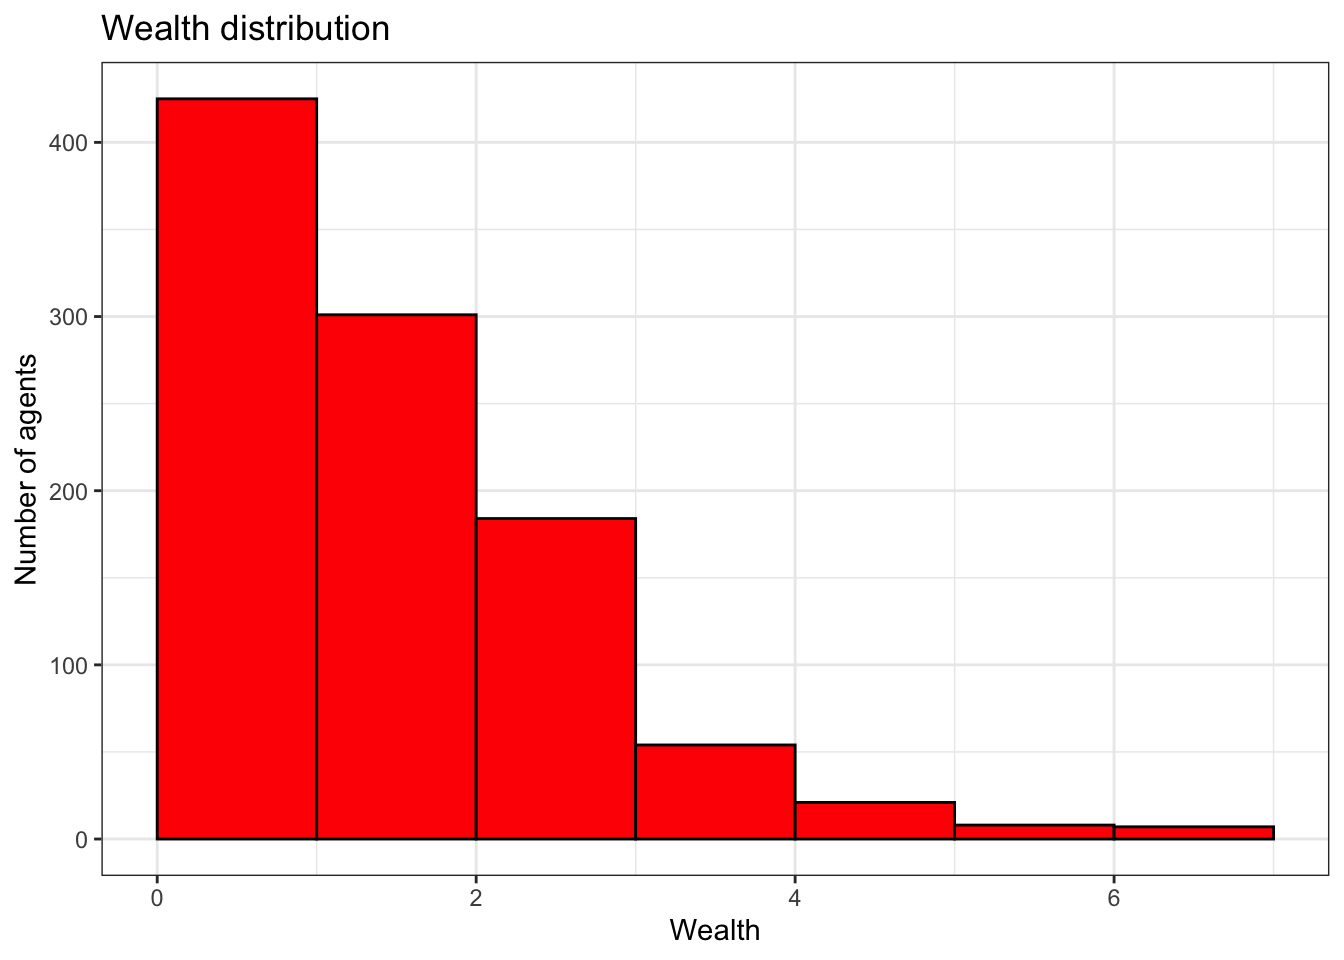
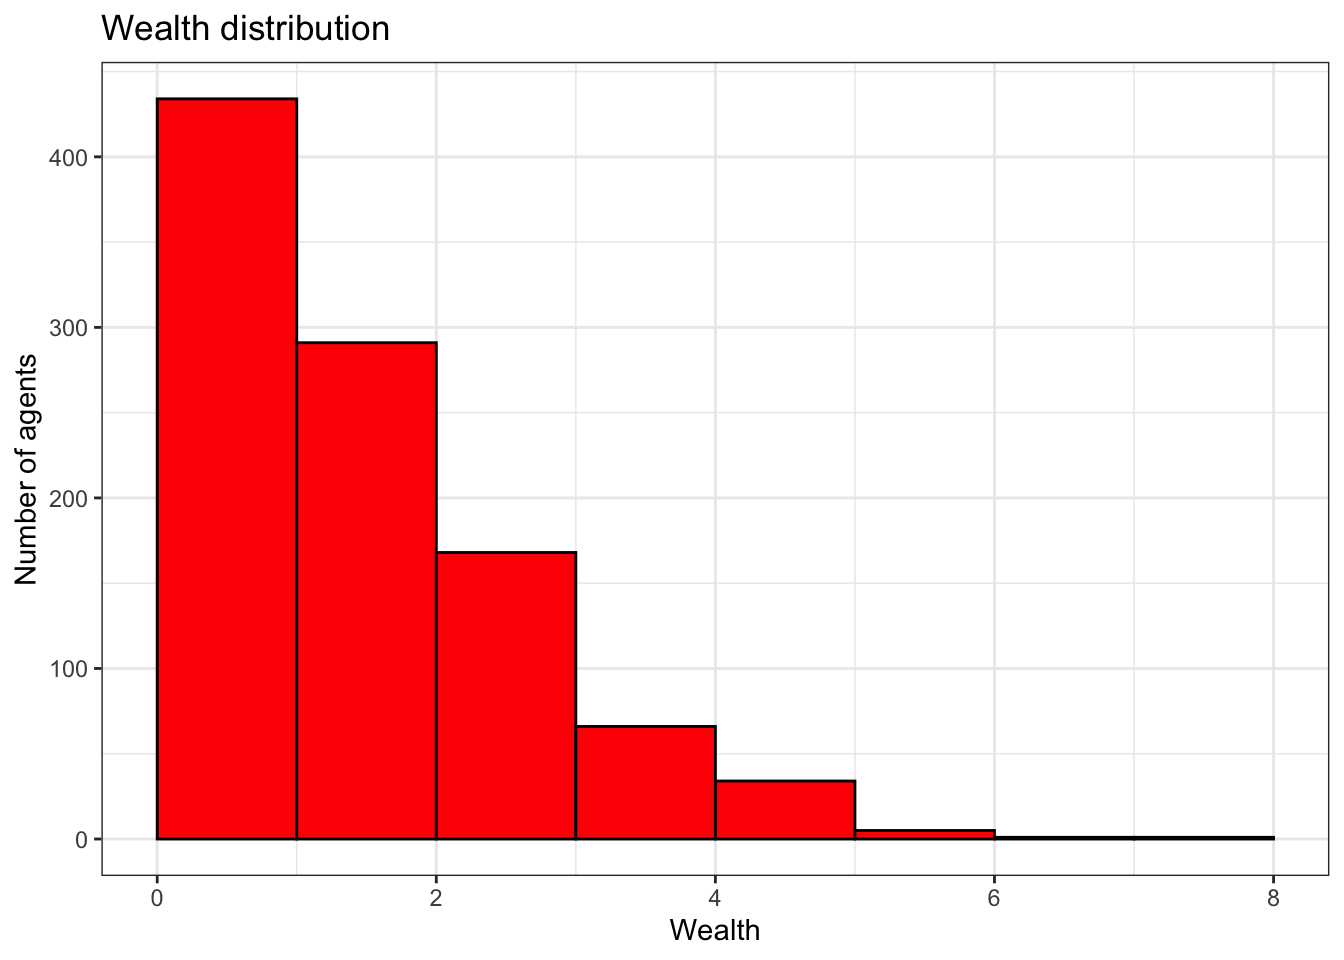
update

diff --git a/docs/index.html b/docs/index.html
@@ -11,7 +11,7 @@
 <meta name="dcterms.date" content="2025-06-24">
 <meta name="description" content="使用 R 调用 Mesa 库构建 ABM，模型 demo 完全来源于 Mesa 官方教程， 代码经过轻度改编，持续更新中。">
 
-<title>在R中使用 Python 模块 Mesa 来创建 ABM 模型</title>
+<title>在 R 中使用 Python 模块 Mesa 来创建 ABM 模型</title>
 <style>
 code{white-space: pre-wrap;}
 span.smallcaps{font-variant: small-caps;}
@@ -157,6 +157,8 @@ pre > code.sourceCode > span > a:first-child::before { text-decoration: underlin
   <li><a href="#代码实现" id="toc-代码实现" class="nav-link" data-scroll-target="#代码实现"><span class="header-section-number">3.4</span> 代码实现</a>
   <ul>
   <li><a href="#创建-cellagent" id="toc-创建-cellagent" class="nav-link" data-scroll-target="#创建-cellagent"><span class="header-section-number">3.4.1</span> 创建 CellAgent</a></li>
+  <li><a href="#创建模型类-1" id="toc-创建模型类-1" class="nav-link" data-scroll-target="#创建模型类-1"><span class="header-section-number">3.4.2</span> 创建模型类</a></li>
+  <li><a href="#运行模型-2" id="toc-运行模型-2" class="nav-link" data-scroll-target="#运行模型-2"><span class="header-section-number">3.4.3</span> 运行模型</a></li>
   </ul></li>
   </ul></li>
   </ul>
@@ -171,7 +173,7 @@ pre > code.sourceCode > span > a:first-child::before { text-decoration: underlin
 
 <header id="title-block-header" class="quarto-title-block default">
 <div class="quarto-title">
-<h1 class="title">在R中使用 Python 模块 Mesa 来创建 ABM 模型</h1>
+<h1 class="title">在 R 中使用 Python 模块 Mesa 来创建 ABM 模型</h1>
 </div>
 
 <div>
@@ -266,7 +268,7 @@ pre > code.sourceCode > span > a:first-child::before { text-decoration: underlin
 <div class="sourceCode cell-code" id="cb5"><pre class="sourceCode python code-with-copy"><code class="sourceCode python"><span id="cb5-1"><a href="#cb5-1" aria-hidden="true" tabindex="-1"></a><span class="kw">class</span> MoneyModel(mesa.Model):</span>
 <span id="cb5-2"><a href="#cb5-2" aria-hidden="true" tabindex="-1"></a>    <span class="co">"""A model with some number of agents."""</span></span>
 <span id="cb5-3"><a href="#cb5-3" aria-hidden="true" tabindex="-1"></a></span>
-<span id="cb5-4"><a href="#cb5-4" aria-hidden="true" tabindex="-1"></a>    <span class="kw">def</span> <span class="fu">__init__</span>(<span class="va">self</span>, n, seed<span class="op">=</span><span class="va">None</span>): <span class="co"># n是创建的 Agent 数量，seed 是随机种子</span></span>
+<span id="cb5-4"><a href="#cb5-4" aria-hidden="true" tabindex="-1"></a>    <span class="kw">def</span> <span class="fu">__init__</span>(<span class="va">self</span>, n, seed<span class="op">=</span><span class="va">None</span>): <span class="co"># n 是创建的 Agent 数量，seed 是随机种子</span></span>
 <span id="cb5-5"><a href="#cb5-5" aria-hidden="true" tabindex="-1"></a>        <span class="bu">super</span>().<span class="fu">__init__</span>(seed<span class="op">=</span>seed)</span>
 <span id="cb5-6"><a href="#cb5-6" aria-hidden="true" tabindex="-1"></a>        <span class="co">#在self (即当前模型) 中创建一个属性 num_agents，保存 Agent 的数量</span></span>
 <span id="cb5-7"><a href="#cb5-7" aria-hidden="true" tabindex="-1"></a>        <span class="va">self</span>.num_agents <span class="op">=</span> n </span>
@@ -322,16 +324,16 @@ pre > code.sourceCode > span > a:first-child::before { text-decoration: underlin
 <span id="cb7-5"><a href="#cb7-5" aria-hidden="true" tabindex="-1"></a><span class="co">#运行模型的 step 方法，激活所有 Agent</span></span>
 <span id="cb7-6"><a href="#cb7-6" aria-hidden="true" tabindex="-1"></a>starter_model.step()</span></code><button title="Copy to Clipboard" class="code-copy-button"><i class="bi"></i></button></pre></div>
 <div class="cell-output cell-output-stdout">
-<pre><code>Hi, I am an agent, you can call me 8.
-Hi, I am an agent, you can call me 1.
+<pre><code>Hi, I am an agent, you can call me 5.
 Hi, I am an agent, you can call me 10.
-Hi, I am an agent, you can call me 2.
-Hi, I am an agent, you can call me 4.
-Hi, I am an agent, you can call me 6.
 Hi, I am an agent, you can call me 3.
-Hi, I am an agent, you can call me 9.
+Hi, I am an agent, you can call me 4.
+Hi, I am an agent, you can call me 1.
+Hi, I am an agent, you can call me 8.
+Hi, I am an agent, you can call me 6.
+Hi, I am an agent, you can call me 2.
 Hi, I am an agent, you can call me 7.
-Hi, I am an agent, you can call me 5.</code></pre>
+Hi, I am an agent, you can call me 9.</code></pre>
 </div>
 </div>
 <p>如果在创建对象时传入了 <code>seed</code> 参数，则每次运行模型时 <code>Agent</code> 的顺序会保持一致。</p>
@@ -386,16 +388,16 @@ Hi, I am an agent, you can call me 8.</code></pre>
 <span id="cb11-28"><a href="#cb11-28" aria-hidden="true" tabindex="-1"></a>starter_model <span class="op">=</span> MoneyModel(<span class="dv">10</span>)</span>
 <span id="cb11-29"><a href="#cb11-29" aria-hidden="true" tabindex="-1"></a>starter_model.step()</span></code><button title="Copy to Clipboard" class="code-copy-button"><i class="bi"></i></button></pre></div>
 <div class="cell-output cell-output-stdout">
-<pre><code>Hi, I am an agent 7,and I have 1 dollars.
-Hi, I am an agent 2,and I have 1 dollars.
-Hi, I am an agent 10,and I have 1 dollars.
+<pre><code>Hi, I am an agent 2,and I have 1 dollars.
+Hi, I am an agent 9,and I have 1 dollars.
+Hi, I am an agent 3,and I have 1 dollars.
 Hi, I am an agent 1,and I have 1 dollars.
+Hi, I am an agent 7,and I have 1 dollars.
+Hi, I am an agent 8,and I have 1 dollars.
+Hi, I am an agent 10,and I have 1 dollars.
 Hi, I am an agent 4,and I have 1 dollars.
 Hi, I am an agent 5,and I have 1 dollars.
-Hi, I am an agent 8,and I have 1 dollars.
-Hi, I am an agent 6,and I have 1 dollars.
-Hi, I am an agent 9,and I have 1 dollars.
-Hi, I am an agent 3,and I have 1 dollars.</code></pre>
+Hi, I am an agent 6,and I have 1 dollars.</code></pre>
 </div>
 </div>
 </section>
@@ -542,12 +544,12 @@ Hi, I am an agent 3,and I have 1 dollars.</code></pre>
 <pre><code># A tibble: 6 × 1
   wealth
    &lt;int&gt;
-1      0
-2      1
-3      2
+1      1
+2      0
+3      1
 4      0
-5      2
-6      1</code></pre>
+5      0
+6      0</code></pre>
 </div>
 <div class="sourceCode cell-code" id="cb22"><pre class="sourceCode r code-with-copy"><code class="sourceCode r"><span id="cb22-1"><a href="#cb22-1" aria-hidden="true" tabindex="-1"></a><span class="fu">ggplot</span>(all_wealth_r, <span class="fu">aes</span>(<span class="at">x =</span> wealth)) <span class="sc">+</span></span>
 <span id="cb22-2"><a href="#cb22-2" aria-hidden="true" tabindex="-1"></a>  <span class="fu">geom_histogram</span>(<span class="at">binwidth =</span> <span class="dv">1</span>, <span class="at">boundary =</span> <span class="dv">0</span>, <span class="at">closed =</span> <span class="st">"left"</span>,</span>
@@ -628,7 +630,7 @@ Hi, I am an agent 3,and I have 1 dollars.</code></pre>
 <li><p>离散空间：<code>Agent</code> 占据单元格或节点</p></li>
 <li><p>连续空间：<code>Agent</code> 占据三维空间中的任何位置</p></li>
 </ul>
-<p>以下使用经典笛卡尔坐标系下的离散空间，具有两个模块：单元格 (<code>cell</code>) 和单元格 <code>Agent</code>。</p>
+<p>以下使用经典笛卡尔坐标系下的离散空间，具有两个模块：单元格 (<code>cell</code>) 和<code>单元格 Agent</code>。</p>
 <p>单元格类表示一个具备以下功能的位置：</p>
 <ul>
 <li><p>具有属性 (如温度、资源等)</p></li>
@@ -636,7 +638,7 @@ Hi, I am an agent 3,and I have 1 dollars.</code></pre>
 <li><p>与相邻单元格连接</p></li>
 <li><p>提供邻居 (<code>neighborhood</code>) 的信息</p></li>
 </ul>
-<p>单元格 <code>Agent</code> 类：能够理解如何在单元格中存在和移动的 <code>Agent</code>。</p>
+<p><code>单元格 Agent</code> 类：能够理解如何在单元格中存在和移动的 <code>Agent</code>。</p>
 <ul>
 <li><p><code>CellAgent</code>: 可以在单元格间移动的 <code>Agent</code>。</p></li>
 <li><p><code>FixedAgent</code>: 永久固定在单元格上的静止 <code>Agent</code>。</p></li>
@@ -690,25 +692,33 @@ Hi, I am an agent 3,and I have 1 dollars.</code></pre>
 <span id="cb27-8"><a href="#cb27-8" aria-hidden="true" tabindex="-1"></a><span class="kw">class</span> MoneyAgent(mesa.discrete_space.CellAgent):</span>
 <span id="cb27-9"><a href="#cb27-9" aria-hidden="true" tabindex="-1"></a>    <span class="co">"""An agent with fixed initial wealth."""</span></span>
 <span id="cb27-10"><a href="#cb27-10" aria-hidden="true" tabindex="-1"></a></span>
-<span id="cb27-11"><a href="#cb27-11" aria-hidden="true" tabindex="-1"></a>    <span class="kw">def</span> <span class="fu">__init__</span>(<span class="va">self</span>, model, cell):</span>
+<span id="cb27-11"><a href="#cb27-11" aria-hidden="true" tabindex="-1"></a>    <span class="kw">def</span> <span class="fu">__init__</span>(<span class="va">self</span>, model, cell): </span>
 <span id="cb27-12"><a href="#cb27-12" aria-hidden="true" tabindex="-1"></a>        <span class="bu">super</span>().<span class="fu">__init__</span>(model)</span>
-<span id="cb27-13"><a href="#cb27-13" aria-hidden="true" tabindex="-1"></a>        <span class="va">self</span>.cell <span class="op">=</span> cell  <span class="co"># 将 Agent初始化在位置 (x,y)</span></span>
+<span id="cb27-13"><a href="#cb27-13" aria-hidden="true" tabindex="-1"></a>        <span class="va">self</span>.cell <span class="op">=</span> cell  <span class="co"># 将 Agent 初始化在 (x,y)，这个位置由参数 cell 决定</span></span>
 <span id="cb27-14"><a href="#cb27-14" aria-hidden="true" tabindex="-1"></a>        <span class="va">self</span>.wealth <span class="op">=</span> <span class="dv">1</span></span>
 <span id="cb27-15"><a href="#cb27-15" aria-hidden="true" tabindex="-1"></a></span>
-<span id="cb27-16"><a href="#cb27-16" aria-hidden="true" tabindex="-1"></a>    <span class="co"># Move Function</span></span>
+<span id="cb27-16"><a href="#cb27-16" aria-hidden="true" tabindex="-1"></a>    <span class="co"># 定义移动函数，控制 Agent 在单元格中移动</span></span>
 <span id="cb27-17"><a href="#cb27-17" aria-hidden="true" tabindex="-1"></a>    <span class="kw">def</span> move(<span class="va">self</span>):</span>
-<span id="cb27-18"><a href="#cb27-18" aria-hidden="true" tabindex="-1"></a>        <span class="va">self</span>.cell <span class="op">=</span> <span class="va">self</span>.cell.neighborhood.select_random_cell()</span>
-<span id="cb27-19"><a href="#cb27-19" aria-hidden="true" tabindex="-1"></a></span>
-<span id="cb27-20"><a href="#cb27-20" aria-hidden="true" tabindex="-1"></a>    <span class="kw">def</span> give_money(<span class="va">self</span>):</span>
-<span id="cb27-21"><a href="#cb27-21" aria-hidden="true" tabindex="-1"></a>        cellmates <span class="op">=</span> [</span>
-<span id="cb27-22"><a href="#cb27-22" aria-hidden="true" tabindex="-1"></a>            a <span class="cf">for</span> a <span class="kw">in</span> <span class="va">self</span>.cell.agents <span class="cf">if</span> a <span class="kw">is</span> <span class="kw">not</span> <span class="va">self</span></span>
-<span id="cb27-23"><a href="#cb27-23" aria-hidden="true" tabindex="-1"></a>        ]  <span class="co"># Get all agents in cell</span></span>
-<span id="cb27-24"><a href="#cb27-24" aria-hidden="true" tabindex="-1"></a></span>
-<span id="cb27-25"><a href="#cb27-25" aria-hidden="true" tabindex="-1"></a>        <span class="cf">if</span> <span class="va">self</span>.wealth <span class="op">&gt;</span> <span class="dv">0</span> <span class="kw">and</span> cellmates:</span>
-<span id="cb27-26"><a href="#cb27-26" aria-hidden="true" tabindex="-1"></a>            other_agent <span class="op">=</span> <span class="va">self</span>.random.choice(cellmates)</span>
-<span id="cb27-27"><a href="#cb27-27" aria-hidden="true" tabindex="-1"></a>            other_agent.wealth <span class="op">+=</span> <span class="dv">1</span></span>
-<span id="cb27-28"><a href="#cb27-28" aria-hidden="true" tabindex="-1"></a>            <span class="va">self</span>.wealth <span class="op">-=</span> <span class="dv">1</span></span></code><button title="Copy to Clipboard" class="code-copy-button"><i class="bi"></i></button></pre></div>
+<span id="cb27-18"><a href="#cb27-18" aria-hidden="true" tabindex="-1"></a>        <span class="co"># 选择一个随机的相邻单元格，默认半径为 1</span></span>
+<span id="cb27-19"><a href="#cb27-19" aria-hidden="true" tabindex="-1"></a>        <span class="va">self</span>.cell <span class="op">=</span> <span class="va">self</span>.cell.neighborhood.select_random_cell()</span>
+<span id="cb27-20"><a href="#cb27-20" aria-hidden="true" tabindex="-1"></a>    </span>
+<span id="cb27-21"><a href="#cb27-21" aria-hidden="true" tabindex="-1"></a>    <span class="co">#定义交换财富函数</span></span>
+<span id="cb27-22"><a href="#cb27-22" aria-hidden="true" tabindex="-1"></a>    <span class="kw">def</span> give_money(<span class="va">self</span>):</span>
+<span id="cb27-23"><a href="#cb27-23" aria-hidden="true" tabindex="-1"></a>        <span class="co">#选择同一个单元格内所有非本身的 Agent</span></span>
+<span id="cb27-24"><a href="#cb27-24" aria-hidden="true" tabindex="-1"></a>        cellmates <span class="op">=</span> [</span>
+<span id="cb27-25"><a href="#cb27-25" aria-hidden="true" tabindex="-1"></a>            a <span class="cf">for</span> a <span class="kw">in</span> <span class="va">self</span>.cell.agents <span class="cf">if</span> a <span class="kw">is</span> <span class="kw">not</span> <span class="va">self</span></span>
+<span id="cb27-26"><a href="#cb27-26" aria-hidden="true" tabindex="-1"></a>        ] </span>
+<span id="cb27-27"><a href="#cb27-27" aria-hidden="true" tabindex="-1"></a>        <span class="co"># 如果自己的财富 &gt;0, 切存在同格内的其他 Agent</span></span>
+<span id="cb27-28"><a href="#cb27-28" aria-hidden="true" tabindex="-1"></a>        <span class="cf">if</span> <span class="va">self</span>.wealth <span class="op">&gt;</span> <span class="dv">0</span> <span class="kw">and</span> cellmates:</span>
+<span id="cb27-29"><a href="#cb27-29" aria-hidden="true" tabindex="-1"></a>            <span class="co">#在所有同格内的 Agent 中随机选择一个</span></span>
+<span id="cb27-30"><a href="#cb27-30" aria-hidden="true" tabindex="-1"></a>            other_agent <span class="op">=</span> <span class="va">self</span>.random.choice(cellmates)</span>
+<span id="cb27-31"><a href="#cb27-31" aria-hidden="true" tabindex="-1"></a>            <span class="co">#将自己的财富 -1，选中的 Agent 的财富 +1</span></span>
+<span id="cb27-32"><a href="#cb27-32" aria-hidden="true" tabindex="-1"></a>            other_agent.wealth <span class="op">+=</span> <span class="dv">1</span></span>
+<span id="cb27-33"><a href="#cb27-33" aria-hidden="true" tabindex="-1"></a>            <span class="va">self</span>.wealth <span class="op">-=</span> <span class="dv">1</span></span></code><button title="Copy to Clipboard" class="code-copy-button"><i class="bi"></i></button></pre></div>
 </div>
+</section>
+<section id="创建模型类-1" class="level3" data-number="3.4.2">
+<h3 data-number="3.4.2" class="anchored" data-anchor-id="创建模型类-1"><span class="header-section-number">3.4.2</span> 创建模型类</h3>
 <div class="cell language-marker" data-display-language="true">
 <div class="sourceCode cell-code" id="cb28"><pre class="sourceCode python code-with-copy"><code class="sourceCode python"><span id="cb28-1"><a href="#cb28-1" aria-hidden="true" tabindex="-1"></a><span class="kw">class</span> MoneyModel(mesa.Model):</span>
 <span id="cb28-2"><a href="#cb28-2" aria-hidden="true" tabindex="-1"></a>    <span class="co">"""A model with some number of agents."""</span></span>
@@ -716,23 +726,34 @@ Hi, I am an agent 3,and I have 1 dollars.</code></pre>
 <span id="cb28-4"><a href="#cb28-4" aria-hidden="true" tabindex="-1"></a>    <span class="kw">def</span> <span class="fu">__init__</span>(<span class="va">self</span>, n, width, height, seed<span class="op">=</span><span class="va">None</span>):</span>
 <span id="cb28-5"><a href="#cb28-5" aria-hidden="true" tabindex="-1"></a>        <span class="bu">super</span>().<span class="fu">__init__</span>(seed<span class="op">=</span>seed)</span>
 <span id="cb28-6"><a href="#cb28-6" aria-hidden="true" tabindex="-1"></a>        <span class="va">self</span>.num_agents <span class="op">=</span> n</span>
-<span id="cb28-7"><a href="#cb28-7" aria-hidden="true" tabindex="-1"></a>        <span class="co"># Instantiate an instance of Moore neighborhood space</span></span>
+<span id="cb28-7"><a href="#cb28-7" aria-hidden="true" tabindex="-1"></a>        <span class="co"># 创建一个摩尔邻域 (每个单元格有 4 个邻居) 网格</span></span>
 <span id="cb28-8"><a href="#cb28-8" aria-hidden="true" tabindex="-1"></a>        <span class="va">self</span>.grid <span class="op">=</span> mesa.discrete_space.OrthogonalMooreGrid(</span>
-<span id="cb28-9"><a href="#cb28-9" aria-hidden="true" tabindex="-1"></a>            (width, height), torus<span class="op">=</span><span class="va">True</span>, capacity<span class="op">=</span><span class="dv">10</span>, random<span class="op">=</span><span class="va">self</span>.random</span>
-<span id="cb28-10"><a href="#cb28-10" aria-hidden="true" tabindex="-1"></a>        )</span>
-<span id="cb28-11"><a href="#cb28-11" aria-hidden="true" tabindex="-1"></a></span>
-<span id="cb28-12"><a href="#cb28-12" aria-hidden="true" tabindex="-1"></a>        <span class="co"># Create agents</span></span>
-<span id="cb28-13"><a href="#cb28-13" aria-hidden="true" tabindex="-1"></a>        agents <span class="op">=</span> MoneyAgent.create_agents(</span>
-<span id="cb28-14"><a href="#cb28-14" aria-hidden="true" tabindex="-1"></a>            <span class="va">self</span>,</span>
-<span id="cb28-15"><a href="#cb28-15" aria-hidden="true" tabindex="-1"></a>            <span class="va">self</span>.num_agents,</span>
-<span id="cb28-16"><a href="#cb28-16" aria-hidden="true" tabindex="-1"></a>            <span class="co"># Randomly select agents cell</span></span>
-<span id="cb28-17"><a href="#cb28-17" aria-hidden="true" tabindex="-1"></a>            <span class="va">self</span>.random.choices(<span class="va">self</span>.grid.all_cells.cells, k<span class="op">=</span><span class="va">self</span>.num_agents),</span>
-<span id="cb28-18"><a href="#cb28-18" aria-hidden="true" tabindex="-1"></a>        )</span>
-<span id="cb28-19"><a href="#cb28-19" aria-hidden="true" tabindex="-1"></a></span>
-<span id="cb28-20"><a href="#cb28-20" aria-hidden="true" tabindex="-1"></a>    <span class="kw">def</span> step(<span class="va">self</span>):</span>
-<span id="cb28-21"><a href="#cb28-21" aria-hidden="true" tabindex="-1"></a>        <span class="va">self</span>.agents.shuffle_do(<span class="st">"move"</span>)</span>
-<span id="cb28-22"><a href="#cb28-22" aria-hidden="true" tabindex="-1"></a>        <span class="va">self</span>.agents.do(<span class="st">"give_money"</span>)</span></code><button title="Copy to Clipboard" class="code-copy-button"><i class="bi"></i></button></pre></div>
+<span id="cb28-9"><a href="#cb28-9" aria-hidden="true" tabindex="-1"></a>            <span class="co">#长宽参数由外部传入，torus控制启用周期性边界</span></span>
+<span id="cb28-10"><a href="#cb28-10" aria-hidden="true" tabindex="-1"></a>            <span class="co">#即最右边和最左边相接，上下相接</span></span>
+<span id="cb28-11"><a href="#cb28-11" aria-hidden="true" tabindex="-1"></a>            <span class="co">#每个单元格最大可以容纳 10 个 Agent</span></span>
+<span id="cb28-12"><a href="#cb28-12" aria-hidden="true" tabindex="-1"></a>            (width, height), torus<span class="op">=</span><span class="va">True</span>, capacity<span class="op">=</span><span class="dv">10</span>, random<span class="op">=</span><span class="va">self</span>.random</span>
+<span id="cb28-13"><a href="#cb28-13" aria-hidden="true" tabindex="-1"></a>        )</span>
+<span id="cb28-14"><a href="#cb28-14" aria-hidden="true" tabindex="-1"></a></span>
+<span id="cb28-15"><a href="#cb28-15" aria-hidden="true" tabindex="-1"></a>        <span class="co">#创建 Agent，这里和前面的模型不一样，新建的 Agent 被存入了列表 agents</span></span>
+<span id="cb28-16"><a href="#cb28-16" aria-hidden="true" tabindex="-1"></a>        <span class="co">#因为立刻要对 agents 进行操作，要将其保存</span></span>
+<span id="cb28-17"><a href="#cb28-17" aria-hidden="true" tabindex="-1"></a>        <span class="co">#如果直接调用 create_agents，模型中存在的是旧的+新建的 agents</span></span>
+<span id="cb28-18"><a href="#cb28-18" aria-hidden="true" tabindex="-1"></a>        <span class="co">#如下写，每次都会覆盖 agents</span></span>
+<span id="cb28-19"><a href="#cb28-19" aria-hidden="true" tabindex="-1"></a>        agents <span class="op">=</span> MoneyAgent.create_agents(</span>
+<span id="cb28-20"><a href="#cb28-20" aria-hidden="true" tabindex="-1"></a>            <span class="va">self</span>, <span class="co">#model = self</span></span>
+<span id="cb28-21"><a href="#cb28-21" aria-hidden="true" tabindex="-1"></a>            <span class="va">self</span>.num_agents, <span class="co"># n = self.num_agents</span></span>
+<span id="cb28-22"><a href="#cb28-22" aria-hidden="true" tabindex="-1"></a>            <span class="co">#给每个 Agent 分配一个随机的单元格</span></span>
+<span id="cb28-23"><a href="#cb28-23" aria-hidden="true" tabindex="-1"></a>            <span class="co">#从所有单元格中挑 k 次，k = Agent 的数量</span></span>
+<span id="cb28-24"><a href="#cb28-24" aria-hidden="true" tabindex="-1"></a>            <span class="va">self</span>.random.choices(<span class="va">self</span>.grid.all_cells.cells, k<span class="op">=</span><span class="va">self</span>.num_agents),</span>
+<span id="cb28-25"><a href="#cb28-25" aria-hidden="true" tabindex="-1"></a>        )</span>
+<span id="cb28-26"><a href="#cb28-26" aria-hidden="true" tabindex="-1"></a>    </span>
+<span id="cb28-27"><a href="#cb28-27" aria-hidden="true" tabindex="-1"></a>    <span class="co">#定义 step，每步运行一次移动和一次给钱</span></span>
+<span id="cb28-28"><a href="#cb28-28" aria-hidden="true" tabindex="-1"></a>    <span class="kw">def</span> step(<span class="va">self</span>):</span>
+<span id="cb28-29"><a href="#cb28-29" aria-hidden="true" tabindex="-1"></a>        <span class="va">self</span>.agents.shuffle_do(<span class="st">"move"</span>)</span>
+<span id="cb28-30"><a href="#cb28-30" aria-hidden="true" tabindex="-1"></a>        <span class="va">self</span>.agents.do(<span class="st">"give_money"</span>)</span></code><button title="Copy to Clipboard" class="code-copy-button"><i class="bi"></i></button></pre></div>
 </div>
+</section>
+<section id="运行模型-2" class="level3" data-number="3.4.3">
+<h3 data-number="3.4.3" class="anchored" data-anchor-id="运行模型-2"><span class="header-section-number">3.4.3</span> 运行模型</h3>
 
 
 </section>
